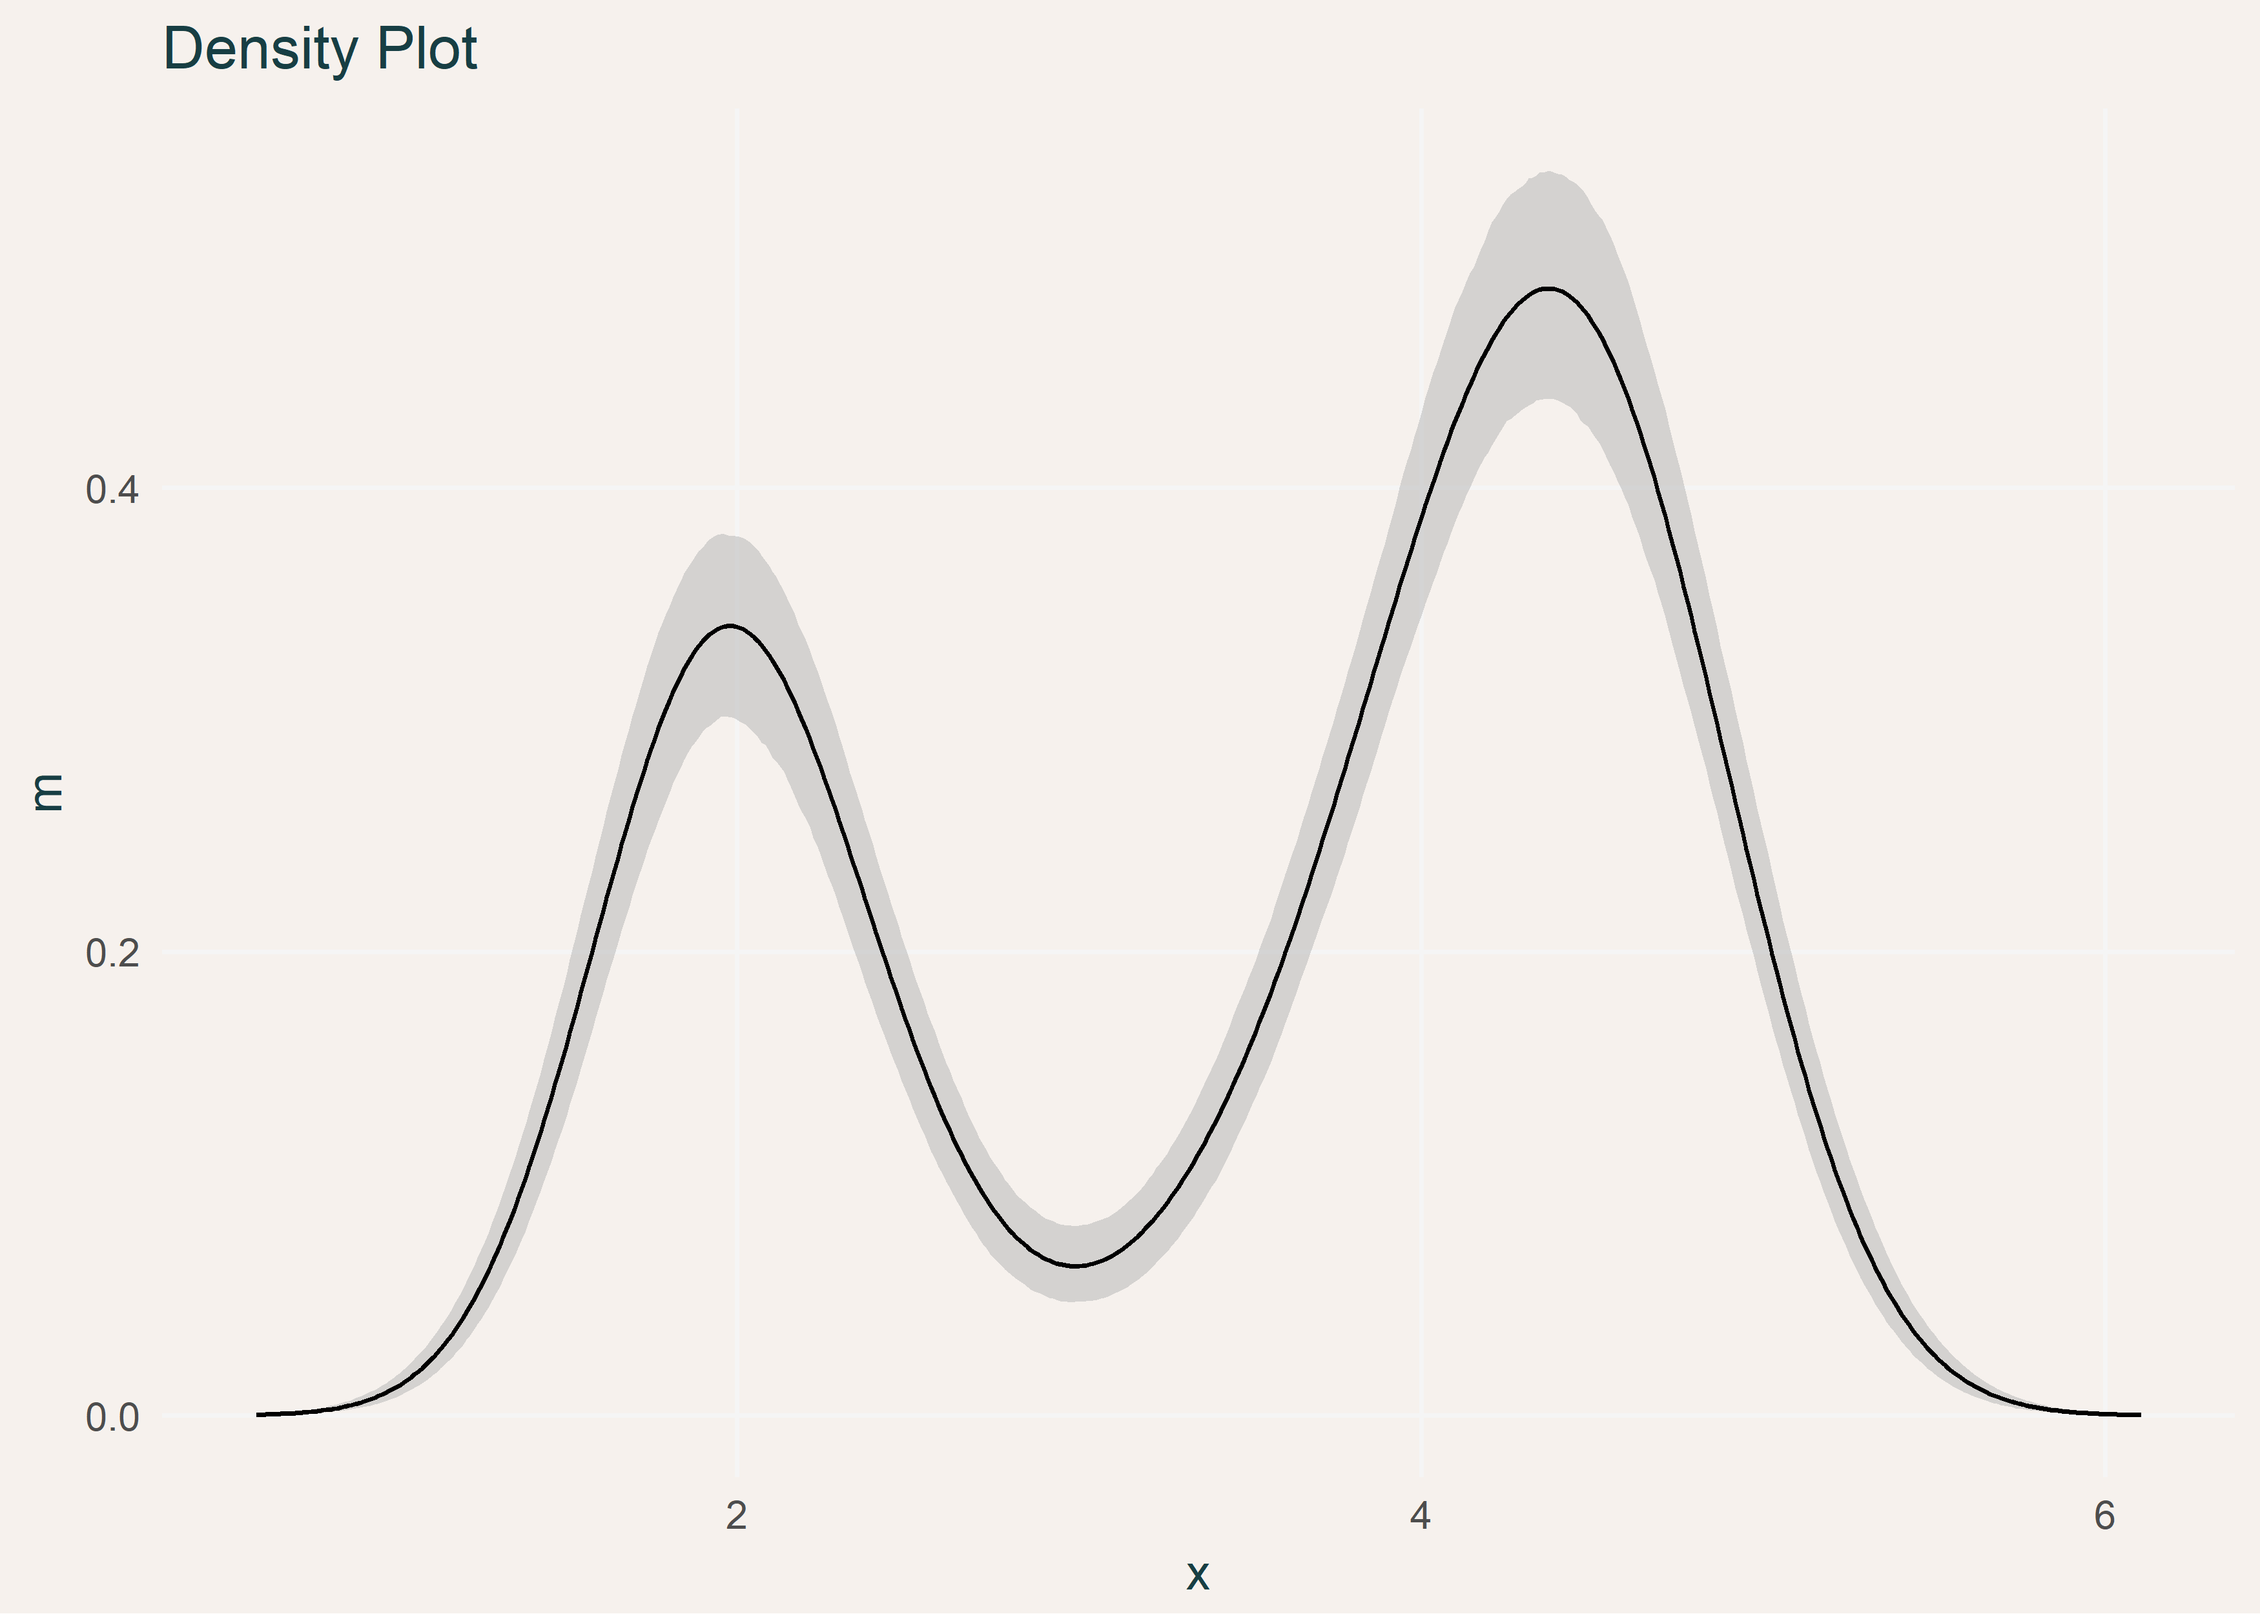
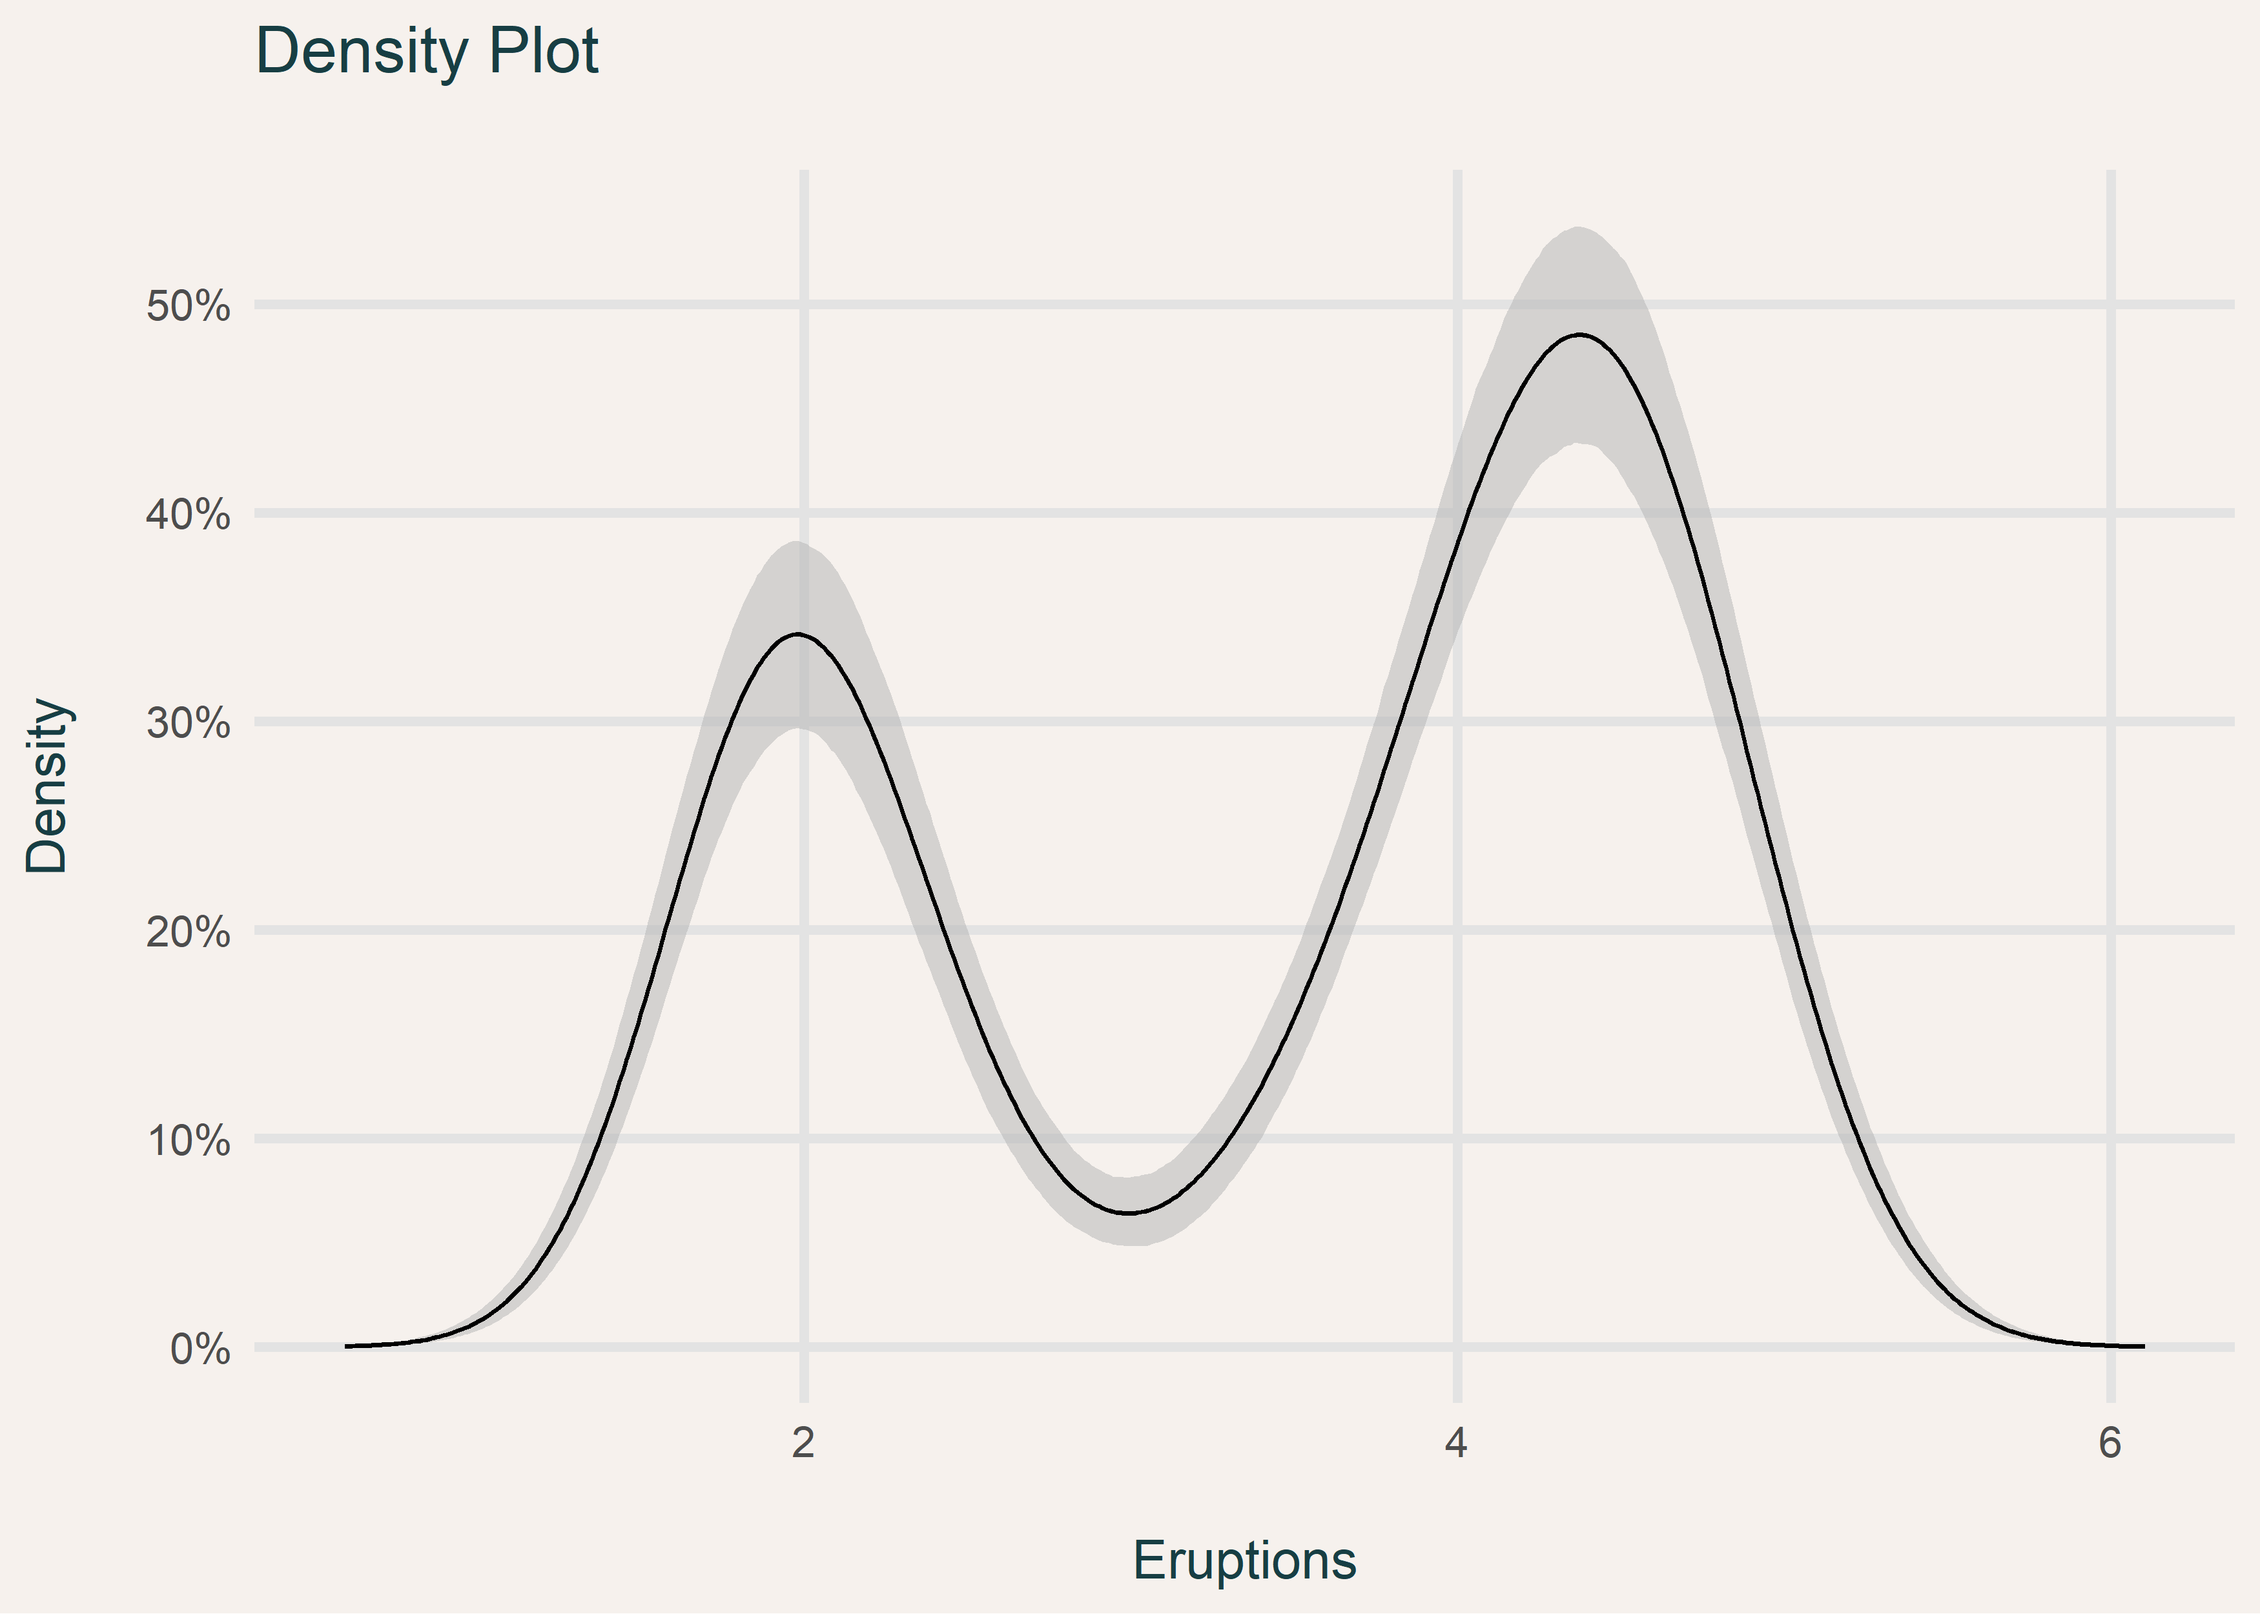
init

diff --git a/_posts/2018-04-08-bootstrapping-density-ggplot.md b/_posts/2018-04-08-bootstrapping-density-ggplot.md
@@ -20,15 +20,18 @@ Lorem ipsum dolor sit amet, no minimum complectitur vim, an enim mandamus comple
 
 ``` r
 theme_c <- function(...) {
+  require(scales)
   theme_minimal() +
     theme(
-      text = element_text(family = "Source Sans Pro", color = "#173e43"),
+      text = element_text(family = "Source Sans Pro", color = "#173e43", size=12),
       # panel.grid.minor = element_line(color = "#ebebe5", size = 0.2),
-      panel.grid.major = element_line(color = "#F5F5F5", size = 0.5),
+      panel.grid.major = element_line(color = "#e3e3e3", size = 1.05),
+      # panel.grid.major = element_line(color = "#173e43", size = 0.5),
       panel.grid.minor = element_blank(),
       plot.background = element_rect(fill = "#f6f1ed", color = NA), 
       panel.background = element_rect(fill = "#f6f1ed", color = NA), 
       legend.background = element_rect(fill = "#f6f1ed", color = NA),
+      # panel.border = element_rect(color = "#173e43", size = 0.5, fill = NA),
       panel.border = element_blank(),
       legend.position = "bottom",
       ...
@@ -73,7 +76,12 @@ r %>%
               fill = "grey70", alpha=0.5) +
   geom_line() +
   theme_c() +
-  labs(title = "Density Plot")
+  labs(title = "Density Plot",
+       subtitle  = "")  +
+  scale_y_continuous(breaks = seq(0,0.5,by=0.1),
+                     labels = seq(0,0.5,by=0.1) %>% percent()) +
+  ylab("Density\n") +
+  xlab("\nEruptions")
 ```
 
 ![]({{ "/assets/plots/get-1.png" | absolute_url }})
